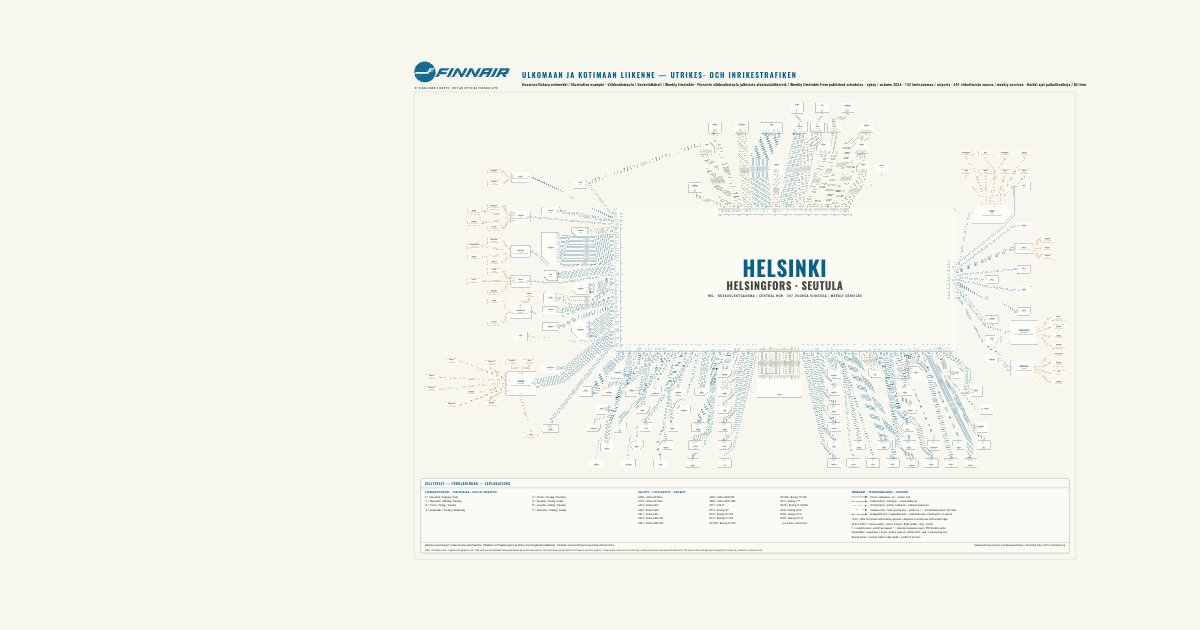
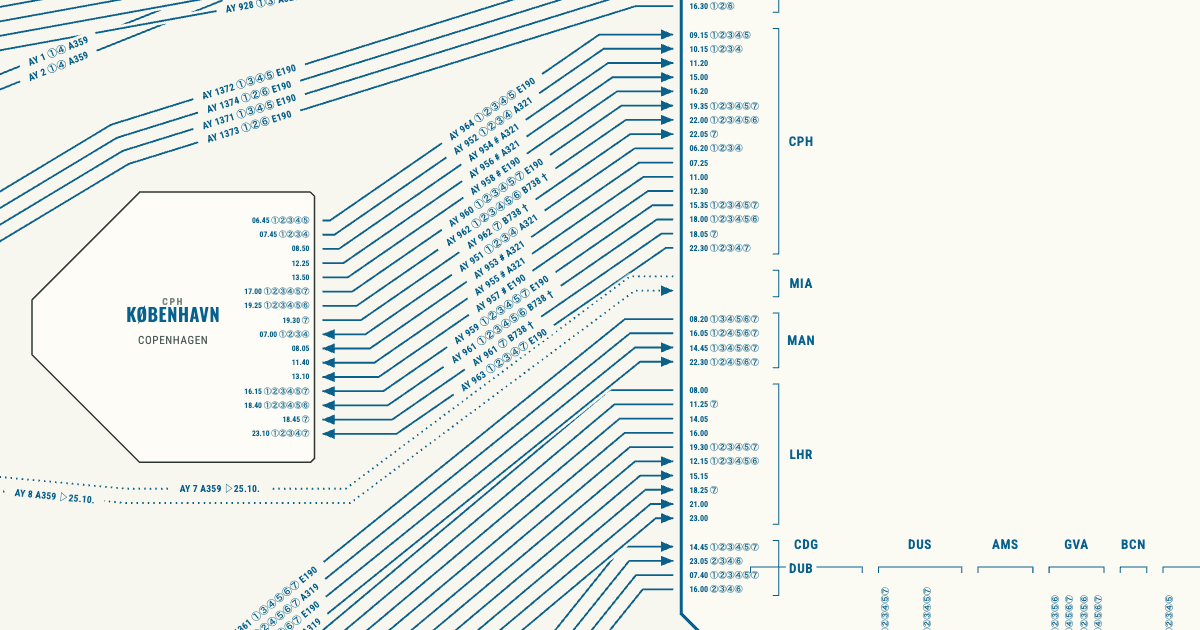
Make the social card show the sheet's detail, not its outline
The whole sheet at fit reads as texture at card size — a grey haze with
a title. The card is now a crop of Copenhagen's bundles climbing into
Helsinki's west edge, where the flight numbers, day marks, equipment
codes and hub brackets are all legible, and which happens to catch three
of the notation marks: the dotted Miami route with its opening date, the
dagger on the wet-leased 737s, and the bracketed destination codes along
the hub edge.

diff --git a/README.md b/README.md
@@ -134,7 +134,7 @@ Code and documentation are released under the [MIT License](LICENSE); see [NOTIC
 
 Every asset the page names carries a hash of its own contents in its filename — `app.<hash>.mjs`, `style.<hash>.css`, `data/schedule.<hash>.json` — so a publish changes what the page asks for and a returning visitor can never be served yesterday's code against today's page. Leaving that to cache expiry bit this project three times: twice on the schedule and once on the bundle, each time looking exactly like a failed deploy while the files on the server were perfectly correct. `test/build.test.mjs` rebuilds the site and fails if any named asset lacks a hash, or if a hash no longer matches its file.
 
-`public/og-preview.png` is the social card image, 1200×630, rendered by hand from a built sheet with the app chrome hidden. It is referenced by absolute URL and keeps a stable name, because the platforms that scrape it cache by URL and a changing name would orphan every post already shared. It is the one artifact in the repository that does not regenerate itself, so refresh it when the sheet's design changes.
+`public/og-preview.png` is the social card image, 1200×630, rendered by hand from a built sheet: a crop of Copenhagen's bundles climbing into Helsinki's west edge, where the flight numbers, day marks, equipment codes and hub brackets are all legible. The whole sheet at fit reads as texture at card size; this shows what the sheet actually is. It is referenced by absolute URL and keeps a stable name, because the platforms that scrape it cache by URL and a changing name would orphan every post already shared. It is the one artifact in the repository that does not regenerate itself, so refresh it when the sheet's design changes.
 
 The source is at [github.com/oplehto/finnair-atlas](https://github.com/oplehto/finnair-atlas), linked from the strip at the foot of the sheet.
 
